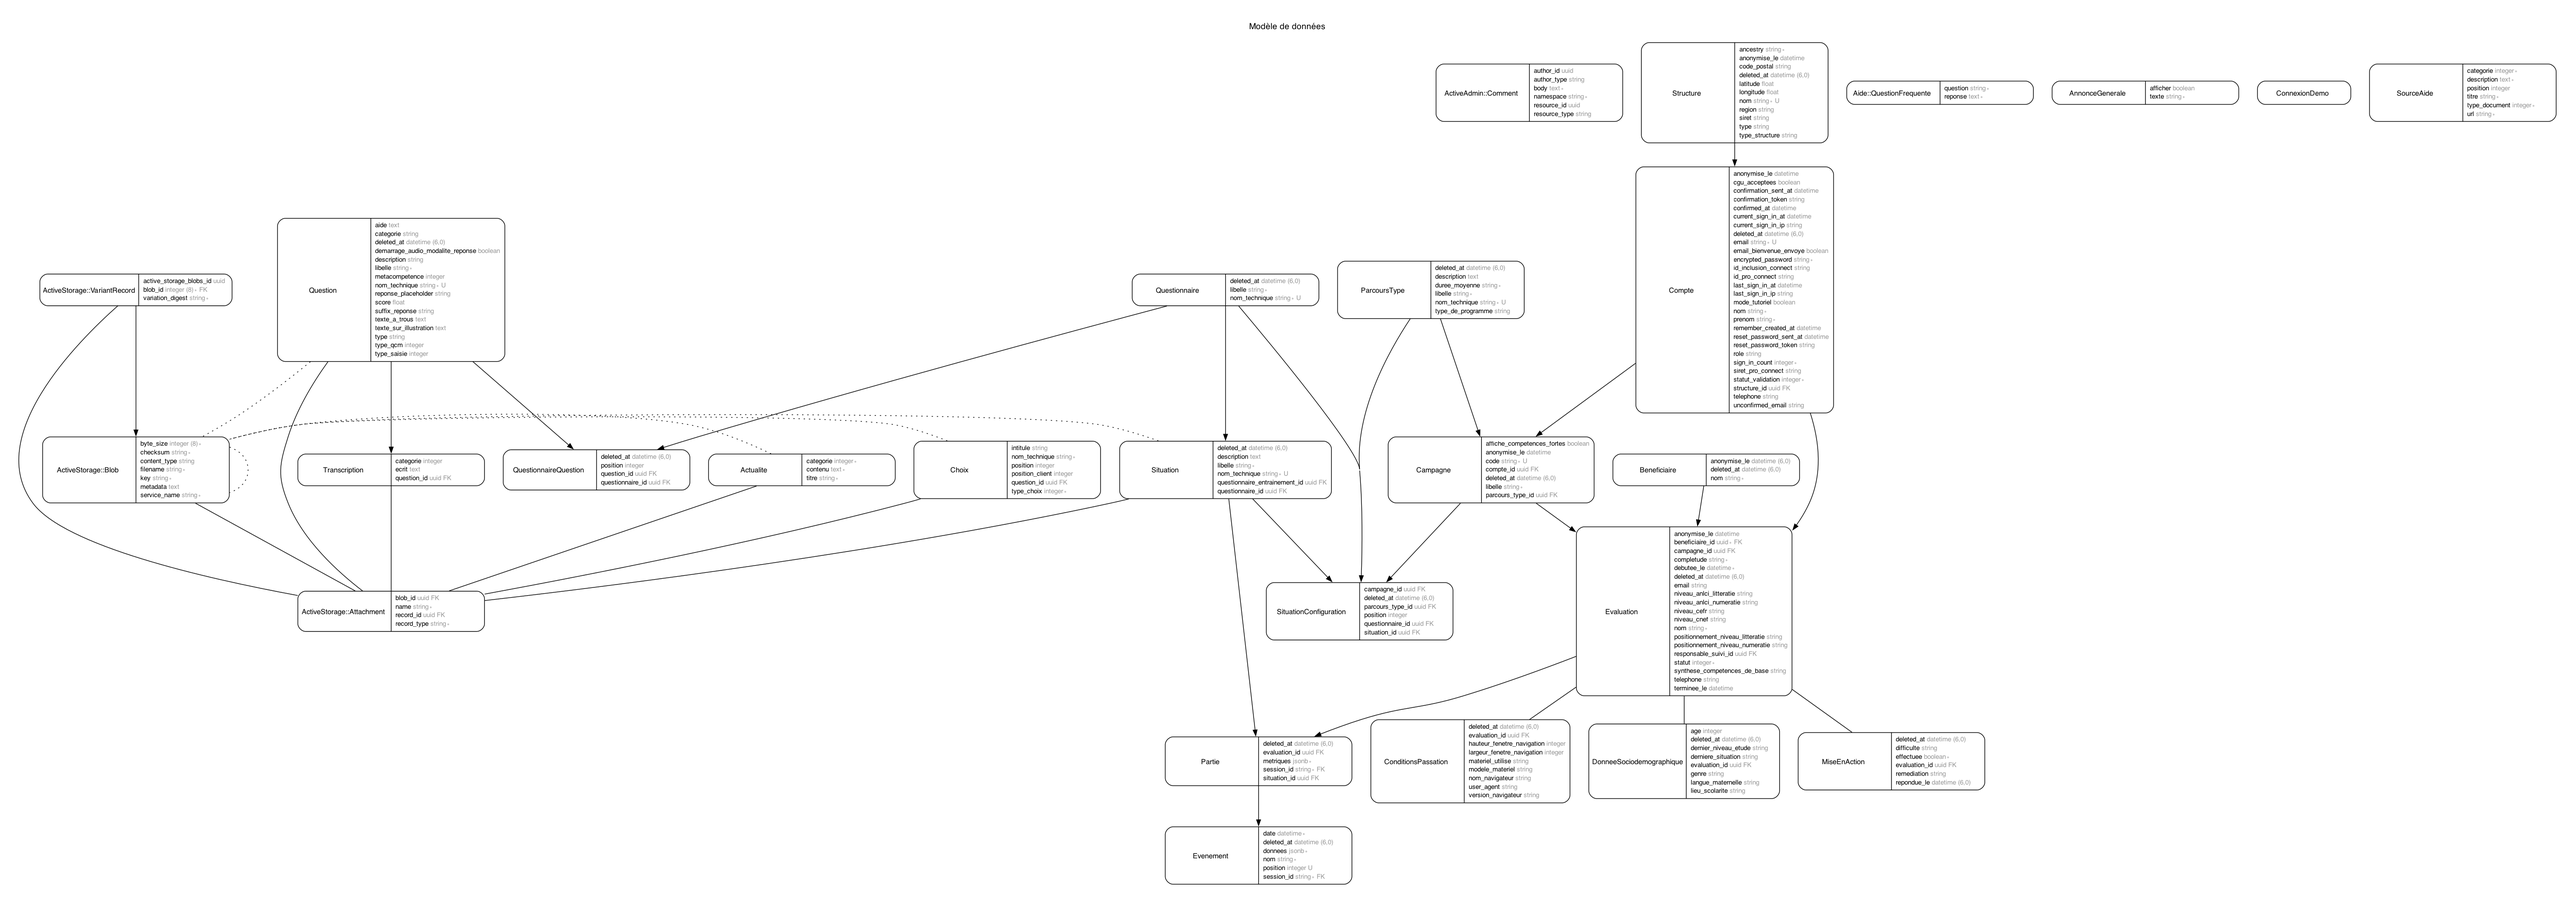
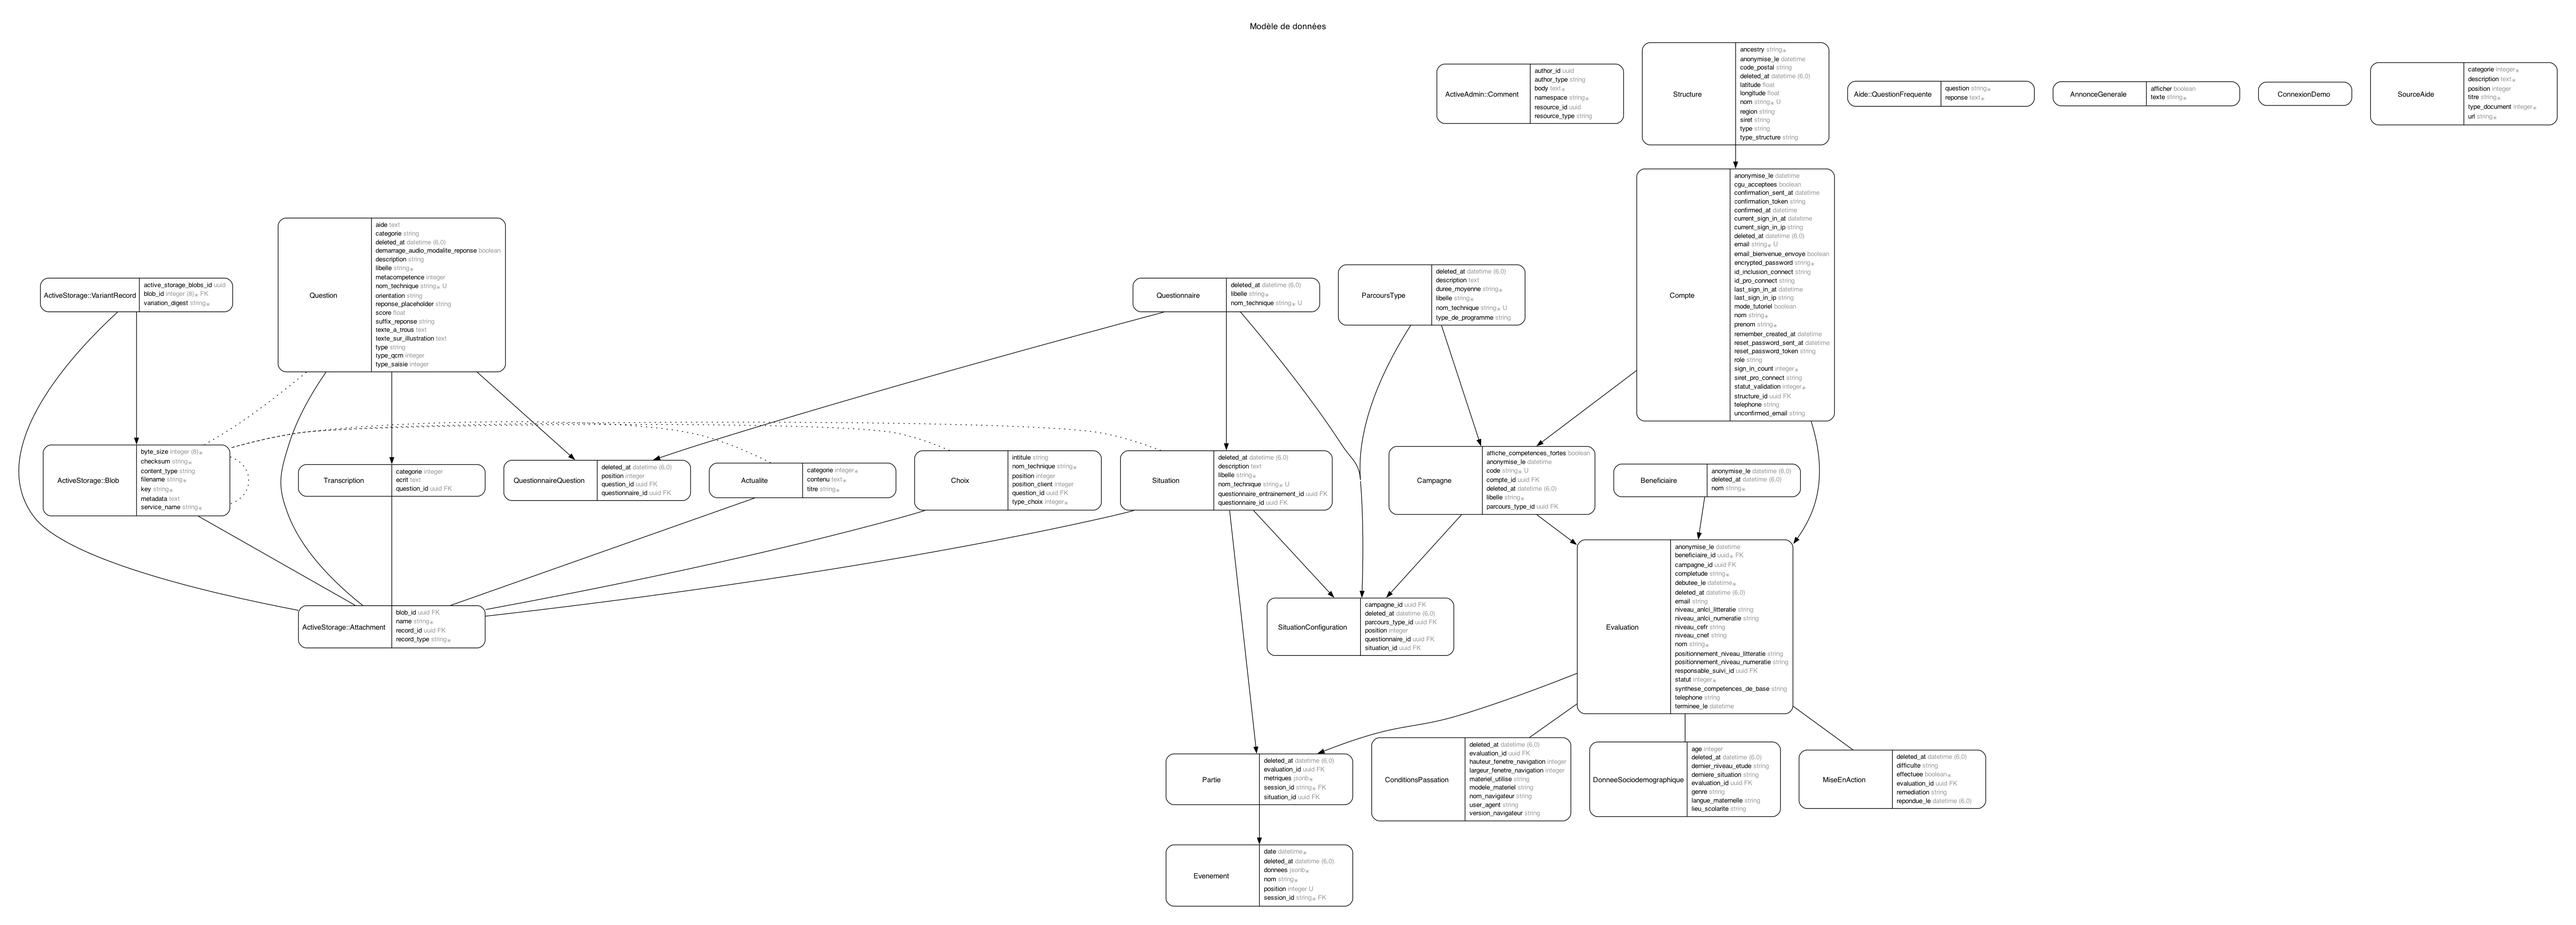
✨ Ajoute l'orientation pour les questions glisser-déposer

diff --git a/spec/models/question_glisser_deposer_spec.rb b/spec/models/question_glisser_deposer_spec.rb
@@ -34,13 +34,15 @@ describe QuestionGlisserDeposer, type: :model do
       expect(json.keys).to match_array(%w[id intitule audio_url nom_technique score metacompetence
                                           description illustration modalite_reponse type
                                           reponsesNonClassees zone_depot_url consigne_audio
-                                          intitule_audio demarrage_audio_modalite_reponse])
+                                          intitule_audio demarrage_audio_modalite_reponse
+                                          orientation])
       expect(json['type']).to eql('glisser-deposer')
       expect(json['modalite_reponse']).to eql(modalite.ecrit)
       expect(json['illustration']).to eql(Rails.application.routes.url_helpers.url_for(
                                             question.illustration.variant(:defaut)
                                           ))
       expect(json['zone_depot_url']).to start_with('http://')
+      expect(json['orientation']).to eql('vertical')
     end
 
     describe 'les reponsesNonClassees' do

diff --git a/db/schema.rb b/db/schema.rb
@@ -10,7 +10,7 @@
 #
 # It's strongly recommended that you check this file into your version control system.
 
-ActiveRecord::Schema[7.2].define(version: 2025_01_03_173358) do
+ActiveRecord::Schema[7.2].define(version: 2025_02_03_164111) do
   # These are extensions that must be enabled in order to support this database
   enable_extension "pgcrypto"
   enable_extension "plpgsql"
@@ -313,6 +313,7 @@ ActiveRecord::Schema[7.2].define(version: 2025_01_03_173358) do
     t.boolean "demarrage_audio_modalite_reponse", default: false
     t.text "aide"
     t.float "score"
+    t.string "orientation"
     t.index ["deleted_at"], name: "index_questions_on_deleted_at"
     t.index ["libelle"], name: "index_questions_on_libelle"
     t.index ["nom_technique"], name: "index_questions_on_nom_technique", unique: true, where: "(deleted_at IS NULL)"

diff --git a/app/admin/questions_glisser_deposer.rb b/app/admin/questions_glisser_deposer.rb
@@ -8,7 +8,7 @@ ActiveAdmin.register QuestionGlisserDeposer do
   permit_params :libelle, :nom_technique, :description, :illustration, :supprimer_illustration,
                 :supprimer_audio_modalite_reponse, :supprimer_audio_intitule,
                 :supprimer_zone_depot, :zone_depot, :supprimer_audio_consigne,
-                :demarrage_audio_modalite_reponse,
+                :demarrage_audio_modalite_reponse, :orientation,
                 transcriptions_attributes: %i[id categorie ecrit audio _destroy],
                 reponses_attributes: %i[id illustration intitule position type_choix position_client
                                         nom_technique _destroy]

diff --git a/app/models/question_glisser_deposer.rb b/app/models/question_glisser_deposer.rb
@@ -13,6 +13,12 @@ class QuestionGlisserDeposer < Question
   validates :zone_depot,
             blob: { content_type: 'image/svg+xml' }
 
+  ORIENTATION_CHOIX = %w[vertical horizontal].freeze
+
+  validates :orientation,
+            inclusion: { in: ORIENTATION_CHOIX },
+            allow_blank: true
+
   attr_accessor :supprimer_zone_depot
 
   before_save :valide_zone_depot_avec_reponse
@@ -44,6 +50,7 @@ class QuestionGlisserDeposer < Question
       json['illustration'] = illustration_url
       json['modalite_reponse'] = transcription_modalite_reponse&.ecrit
       json['intitule'] = transcription_intitule&.ecrit
+      json['orientation'] = orientation
     end
   end
 

diff --git a/spec/factories/question.rb b/spec/factories/question.rb
@@ -77,7 +77,7 @@ FactoryBot.define do
   factory :question_glisser_deposer do
     libelle { 'Question glisser deposer' }
     sequence(:nom_technique) { |n| "question-glissser-deposer-#{n}" }
-
+    orientation { 'vertical' }
     trait :avec_images do
       illustration do
         Rack::Test::UploadedFile.new(Rails.root.join('spec/support/programme_tele.png'))

diff --git a/db/migrate/20250203164111_ajoute_orientation_pour_question.rb b/db/migrate/20250203164111_ajoute_orientation_pour_question.rb
@@ -1,0 +1,5 @@
+class AjouteOrientationPourQuestion < ActiveRecord::Migration[7.2]
+  def change
+    add_column :questions, :orientation, :string
+  end
+end
